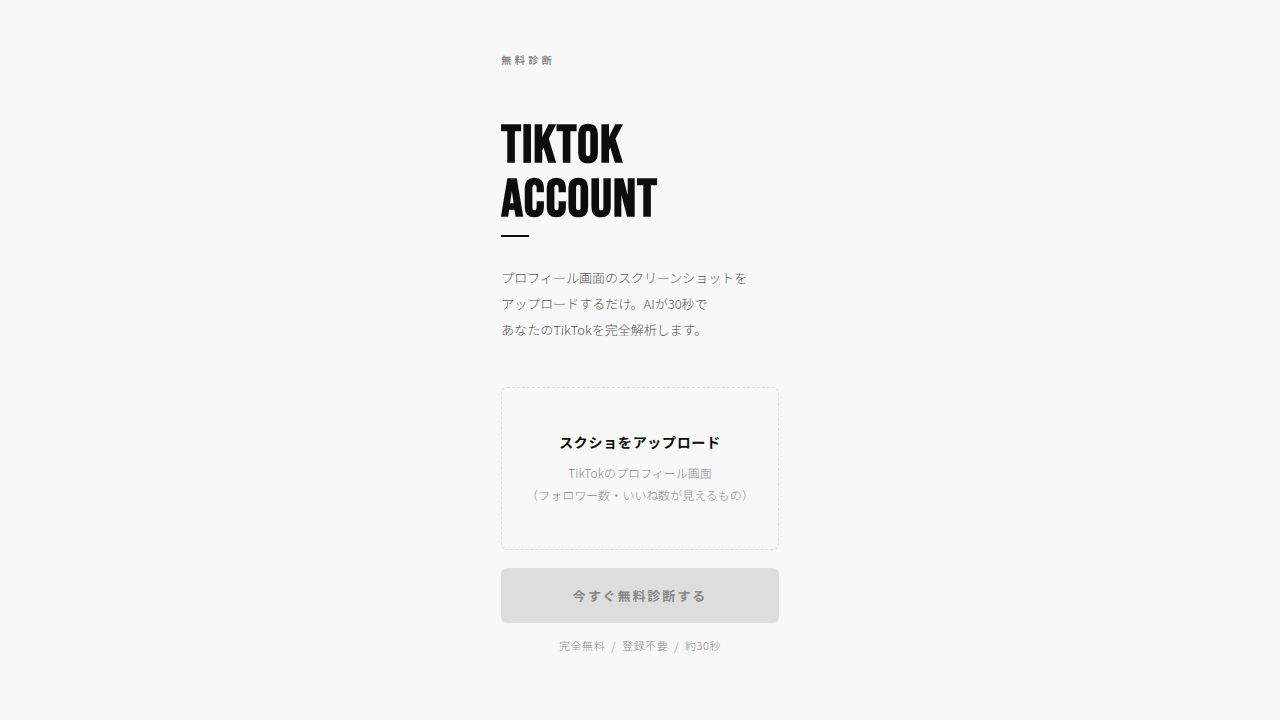
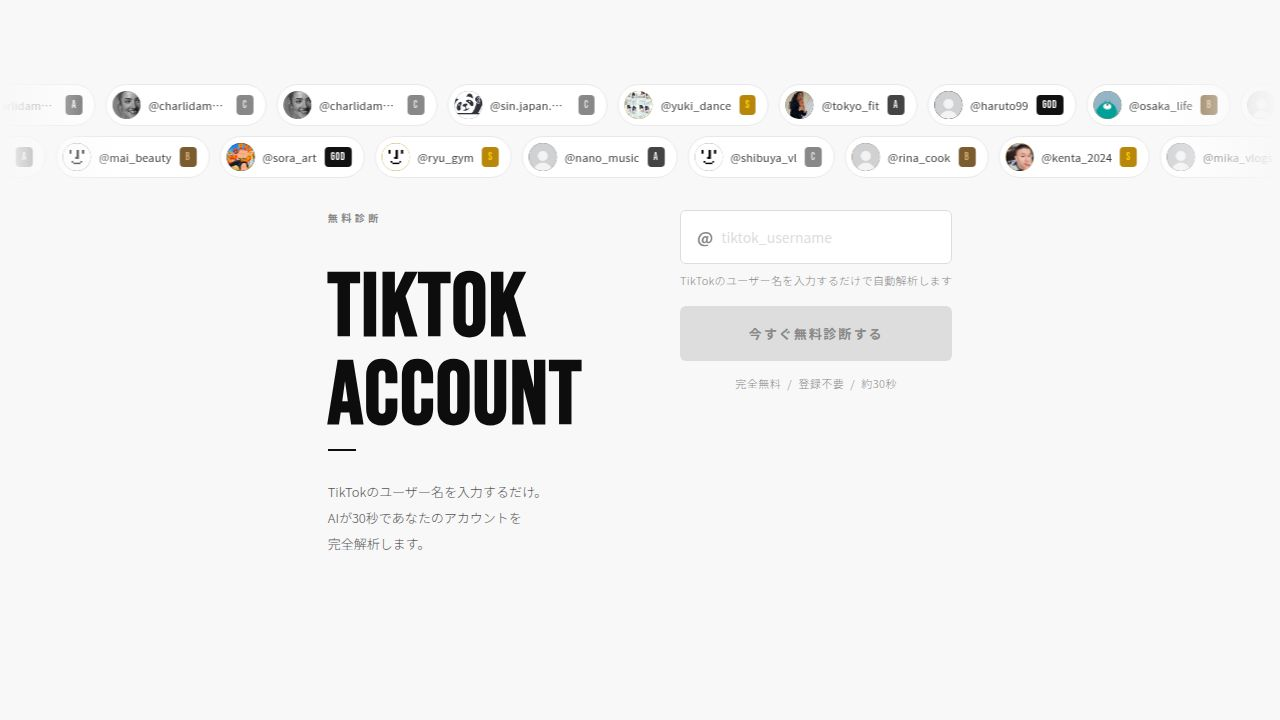
Simplify the application to only allow diagnosis by username
Remove image upload functionality and related UI elements, focusing solely on username-based diagnosis.

Replit-Commit-Author: Agent
Replit-Commit-Session-Id: 637460f8-6ff6-439b-8ea0-27e99a7ec6a8
Replit-Commit-Checkpoint-Type: full_checkpoint
Replit-Commit-Event-Id: fef6d3c5-c452-4bf9-a341-e2402a4e4ff8
Replit-Commit-Screenshot-Url: https://storage.googleapis.com/screenshot-production-us-central1/e3b2561e-48ff-43b5-9d88-7253c8665ee7/637460f8-6ff6-439b-8ea0-27e99a7ec6a8/iJeLsgo
Replit-Helium-Checkpoint-Created: true

diff --git a/artifacts/shindan/index.html b/artifacts/shindan/index.html
@@ -62,15 +62,6 @@
     margin-bottom: 44px;
     font-weight: 300;
   }
-  .upload-zone {
-    border: 1.5px dashed var(--gray5);
-    border-radius: 6px;
-    padding: 44px 24px;
-    text-align: center;
-    cursor: pointer;
-    transition: border-color 0.2s, background 0.2s;
-  }
-
   /* ===== RESPONSIVE ===== */
   @media (min-width: 700px) {
     .container { max-width: 680px; padding: 0 40px; }
@@ -112,43 +103,6 @@
     }
     .result-col-left { }
     .result-col-right { }
-  }
-  .upload-zone:hover, .upload-zone.dragover {
-    border-color: var(--black);
-    border-style: solid;
-    background: rgba(0,0,0,0.02);
-  }
-  .upload-label {
-    font-size: 14px;
-    font-weight: 700;
-    color: var(--black);
-    margin-bottom: 10px;
-    letter-spacing: 0.05em;
-  }
-  .upload-sub {
-    font-size: 12px;
-    color: var(--gray4);
-    line-height: 1.8;
-    font-weight: 300;
-  }
-  #fileInput { display: none; }
-  .preview-wrap { display: none; margin-top: 14px; position: relative; }
-  .preview-wrap img {
-    width: 100%;
-    border-radius: 6px;
-    display: block;
-    border: 1px solid var(--gray5);
-  }
-  .preview-tag {
-    position: absolute;
-    top: 10px; right: 10px;
-    background: var(--black);
-    color: var(--white);
-    font-size: 10px;
-    font-weight: 700;
-    letter-spacing: 0.15em;
-    padding: 4px 10px;
-    border-radius: 2px;
   }
   .btn-main {
     display: block;
@@ -498,34 +452,6 @@
   }
   .btn-line:hover { background: #05b34c; }
 
-  /* ===== モード切替 ===== */
-  .mode-tabs {
-    display: flex;
-    gap: 0;
-    margin-bottom: 18px;
-    border: 1.5px solid var(--black);
-    border-radius: 6px;
-    overflow: hidden;
-  }
-  .mode-tab {
-    flex: 1;
-    padding: 11px 8px;
-    font-size: 11px;
-    font-weight: 700;
-    letter-spacing: 0.1em;
-    font-family: 'Noto Sans JP', sans-serif;
-    cursor: pointer;
-    border: none;
-    background: transparent;
-    color: var(--gray4);
-    transition: background 0.15s, color 0.15s;
-  }
-  .mode-tab.active {
-    background: var(--black);
-    color: var(--white);
-  }
-  .mode-tab:not(.active):hover { background: #f0f0f0; color: var(--black); }
-
   /* ユーザー名入力 */
   .username-input-wrap {
     margin-bottom: 0;
@@ -705,38 +631,16 @@
         <div class="logo">無料診断</div>
         <h1 class="page-title">TIKTOK<br>ACCOUNT</h1>
         <div class="divider"></div>
-        <p class="page-desc">プロフィール画面のスクリーンショットを<br>アップロードするだけ。AIが30秒で<br>あなたのTikTokを完全解析します。</p>
+        <p class="page-desc">TikTokのユーザー名を入力するだけ。<br>AIが30秒であなたのアカウントを<br>完全解析します。</p>
       </div>
       <div class="upload-col-right">
 
-        <!-- モード切替タブ -->
-        <div class="mode-tabs">
-          <button class="mode-tab active" id="tabImage" onclick="switchMode('image')">スクショで診断</button>
-          <button class="mode-tab" id="tabUsername" onclick="switchMode('username')">@ユーザー名で診断</button>
-        </div>
-
-        <!-- 画像モード -->
-        <div id="modeImage">
-          <div class="upload-zone" id="uploadZone" onclick="document.getElementById('fileInput').click()">
-            <div class="upload-label">スクショをアップロード</div>
-            <div class="upload-sub">TikTokのプロフィール画面<br>（フォロワー数・いいね数が見えるもの）</div>
-            <input type="file" id="fileInput" accept="image/*">
+        <div class="username-input-wrap">
+          <div class="username-field">
+            <span class="username-at">@</span>
+            <input type="text" id="usernameInput" placeholder="tiktok_username" autocomplete="off" autocorrect="off" autocapitalize="none" spellcheck="false" oninput="onUsernameInput()" onkeydown="if(event.key==='Enter'&&!btnDiagnose.disabled)startDiagnosis()">
           </div>
-          <div class="preview-wrap" id="previewWrap">
-            <img id="previewImg" src="" alt="">
-            <div class="preview-tag">選択済み</div>
-          </div>
-        </div>
-
-        <!-- ユーザー名モード -->
-        <div id="modeUsername" style="display:none;">
-          <div class="username-input-wrap">
-            <div class="username-field">
-              <span class="username-at">@</span>
-              <input type="text" id="usernameInput" placeholder="tiktok_username" autocomplete="off" autocorrect="off" autocapitalize="none" spellcheck="false" oninput="onUsernameInput()">
-            </div>
-            <p class="username-hint">TikTokのユーザー名を入力するだけで自動解析します</p>
-          </div>
+          <p class="username-hint">TikTokのユーザー名を入力するだけで自動解析します</p>
         </div>
 
         <button class="btn-main" id="btnDiagnose" disabled onclick="startDiagnosis()">
@@ -828,62 +732,16 @@
 <div class="toast" id="toast">コピーしました</div>
 
 <script>
-  const fileInput = document.getElementById('fileInput');
-  const uploadZone = document.getElementById('uploadZone');
-  const previewWrap = document.getElementById('previewWrap');
-  const previewImg = document.getElementById('previewImg');
   const btnDiagnose = document.getElementById('btnDiagnose');
   let captionText = '';
-  let uploadedImageSrc = '';
-  let currentMode = 'image'; // 'image' | 'username'
-
-  // ===== モード切替 =====
-  function switchMode(mode) {
-    currentMode = mode;
-    document.getElementById('tabImage').classList.toggle('active', mode === 'image');
-    document.getElementById('tabUsername').classList.toggle('active', mode === 'username');
-    document.getElementById('modeImage').style.display = mode === 'image' ? 'block' : 'none';
-    document.getElementById('modeUsername').style.display = mode === 'username' ? 'block' : 'none';
-    // ボタン状態リセット
-    if (mode === 'image') {
-      btnDiagnose.disabled = !fileInput.files[0];
-    } else {
-      const val = document.getElementById('usernameInput').value.trim();
-      btnDiagnose.disabled = val.length < 1;
-    }
-  }
 
   function onUsernameInput() {
     const val = document.getElementById('usernameInput').value.trim();
     btnDiagnose.disabled = val.length < 1;
   }
 
-  fileInput.addEventListener('change', e => {
-    if (!e.target.files[0]) return;
-    const reader = new FileReader();
-    reader.onload = ev => {
-      uploadedImageSrc = ev.target.result;
-      previewImg.src = uploadedImageSrc;
-      previewWrap.style.display = 'block';
-      btnDiagnose.disabled = false;
-    };
-    reader.readAsDataURL(e.target.files[0]);
-  });
-
-  uploadZone.addEventListener('dragover', e => { e.preventDefault(); uploadZone.classList.add('dragover'); });
-  uploadZone.addEventListener('dragleave', () => uploadZone.classList.remove('dragover'));
-  uploadZone.addEventListener('drop', e => {
-    e.preventDefault();
-    uploadZone.classList.remove('dragover');
-    const f = e.dataTransfer.files[0];
-    if (f && f.type.startsWith('image/')) {
-      fileInput.files = e.dataTransfer.files;
-      fileInput.dispatchEvent(new Event('change'));
-    }
-  });
-
   const loadingSteps = [
-    '画像を読み込み中',
+    'プロフィールを取得中',
     'フォロワーデータを解析中',
     'エンゲージメントを計測中',
     'バズポテンシャルを診断中',
@@ -920,30 +778,16 @@
       network: (navigator.connection ? navigator.connection.effectiveType : ''),
     };
 
-    let fetchPromise;
-
-    if (currentMode === 'username') {
-      // ユーザー名モード：JSONで送信
-      const username = document.getElementById('usernameInput').value.trim().replace(/^@/, '');
-      fetchPromise = fetch('/api/diagnose-by-username', {
-        method: 'POST',
-        headers: { 'Content-Type': 'application/json' },
-        body: JSON.stringify({ username, ...commonParams }),
-      }).then(r => {
+    const username = document.getElementById('usernameInput').value.trim().replace(/^@/, '');
+    fetch('/api/diagnose-by-username', {
+      method: 'POST',
+      headers: { 'Content-Type': 'application/json' },
+      body: JSON.stringify({ username, ...commonParams }),
+    })
+      .then(r => {
         if (!r.ok) return r.json().then(e => { throw new Error(e.error || 'エラー'); });
         return r.json();
-      });
-    } else {
-      // 画像モード：FormDataで送信
-      const formData = new FormData();
-      formData.append('image', fileInput.files[0]);
-      Object.entries(commonParams).forEach(([k, v]) => formData.append(k, v));
-      formData.append('dwell_time', Math.floor((Date.now() - dwellStart) / 1000));
-      formData.append('operation_count', operationCount);
-      fetchPromise = fetch('/api/diagnose', { method: 'POST', body: formData }).then(r => r.json());
-    }
-
-    fetchPromise
+      })
       .then(data => {
         clearInterval(iv);
         bar.style.width = '100%';
@@ -953,20 +797,12 @@
       .catch(err => {
         clearInterval(iv);
         bar.style.width = '100%';
-        if (currentMode === 'username' && err.message) {
-          showToast(err.message);
-          document.getElementById('screen-loading').style.display = 'none';
-          document.getElementById('screen-upload').style.display = 'flex';
-          return;
-        }
-        // 画像モードのフォールバック
-        const r = results[Math.floor(Math.random() * results.length)];
-        setTimeout(() => showResult(r), 400);
+        showToast(err.message || 'ユーザーが見つかりませんでした');
+        document.getElementById('screen-loading').style.display = 'none';
+        document.getElementById('screen-upload').style.display = 'flex';
       });
   }
 
-  let operationCount = 0;
-  document.addEventListener('click', () => operationCount++);
 
   const results = [
     {
